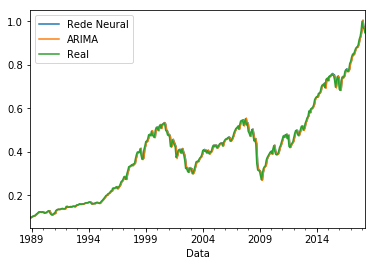
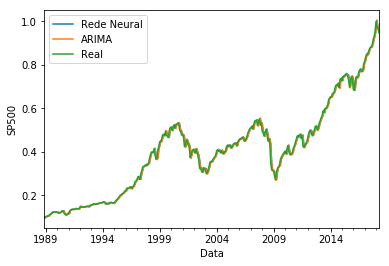
fix conclusao

diff --git a/main.tex b/main.tex
@@ -675,7 +675,7 @@ tempo parcimonioso e representativo para a série analisada.
 
 Por fim, para completa construção  do modelo apresentado na \autoref{eq:arma} é
 necessária a obtenção dos coeficientes  do processo autorregressivo e de médias
-móveis. Para  essa tarefa  segundo \citeonline{yinay} é  comum a  utilização do
+móveis. Para  essa tarefa  segundo \citeonline{vinay} é  comum a  utilização do
 estimador de \textit{likelihood}, ou mais precisamente a maximação da função de
 \textit{likelihood}.
 
@@ -964,6 +964,15 @@ Um de seus  desafios foi combinar a informação de  geolocalização com as sé
 das  demandas por  corridas. Como  resultado  ele foi  capaz de  obter um  erro
 inferior a 26\% na previsão de corridas utilizando modelo proposto.
 
+Quanto  a  utilização   de  redes  neurais  podemos  observar   o  trabalho  de
+\citeonline{zhangbco}.  Neste trabalho  foi observado  o desempenho  do uso  de
+redes neurais  utilizando o algorítimo de  retro propagação e outro  baseado em
+algorítimos naturais. A série utilizado foi  a do índice S\&P500, foi comparada
+a previsão  entre um e  quinze dias adiante. O  modelo neural utilizado  foi de
+três camadas, com 9  neurônios na camada de entrada, 3 na  camada escondida e 1
+na de  saída. O modelo proposto  utilizando o algorítimo neural  teve resultado
+superior para todas as analises.
+
 \chapter{Desenvolvimento}\label{chap:desenv}
 
 Como colocado na \autoref{sec:seriesTemporais} a capacidade de se prever séries
@@ -1011,7 +1020,7 @@ respectivamente de apresentar o menor e maior elemento do conjunto.
 \end{figure}
 
 A  divisão do  conjunto  de treino  e  teste  foi realizado  de  maneira a  ser
-utilizado 70\% dos dados durante o treinamento e 30\% durante a validação. Na
+utilizado 70\% dos  dados durante o treinamento e 30\%  durante a validação. Na
 \autoref{fig:traintest} vemos estes conjuntos.
 
 \begin{figure}[ht]
@@ -1050,7 +1059,7 @@ intervalo de confiança.
 
 \begin{figure}[ht]
     \centering
-    \caption{Função de autocorrelação para a série S\&P500}\autoref{fig:acfsp500}
+    \caption{Função de autocorrelação para a série S\&P500}\label{fig:acfsp500}
     \includegraphics[width=.5\linewidth]{images/SP500_FAC.png}
     \source{Elaborado pelo autor}
 \end{figure}
@@ -1075,7 +1084,7 @@ concluir que uma única diferenciação foi suficiente.
 \end{figure}
 
 Quanto a sazonalidade, podemos observar a  existência de um padrão que remete a
-um comportamento na  \autoref{fig:acf_diff_dp500}, no entanto, não  é tão claro
+um comportamento na  \autoref{fig:acf_diff_sp500}, no entanto, não  é tão claro
 qual o período.  Para se definir isso seria necessária  a definição de técnicas
 que não fizeram parte desse trabalho.
 
@@ -1224,10 +1233,15 @@ ordem de $0,6\%$.
 \end{table}
 
 \begin{figure}[ht]
-    \centering
-    \caption{Gráfico comparativo entre os modelos obtidos para a série
-    S\&P500}\label{fig:comparesp500}
-    \includegraphics[width=.5\linewidth]{images/sp500_prediction_compare.png}
+    \caption{Comparativos dos resultados}
+    \begin{subfigure}{.5\textwidth}
+        \caption{Gráfico comparativo entre os modelos obtidos}\label{fig:comparesp500}
+        \includegraphics[width=.8\linewidth]{images/sp500_prediction_compare.png}
+    \end{subfigure}
+    \begin{subfigure}{.5\textwidth}
+        \caption{Gráfico dos erros acumulados}\label{fig:comparesp500}
+        \includegraphics[width=.8\linewidth]{images/sp500_cumsum.png}
+    \end{subfigure}
     \source{Elaborado pelo autor}
 \end{figure}
 
@@ -1238,51 +1252,47 @@ temporais utilizando  algorítimos estatísticos e  de aprendizado de  máquina.
 comum  em  trabalhos  a  utilização  de métodos  probabilísticos  quando  se  é
 realizada a tarefa de previsão de séries, mais especificamente o modelo hibrido
 ARIMA proposto por \citeonline{box}. No entanto modelos baseados em algorítimos
-de aprendizado  de máquina  tomaram notoriedade nos  últimos anos,  logo, neste
+de aprendizado  de máquina se tornaram  notórios nos últimos anos,  logo, neste
 trabalho  foi comparado  estes  modelos  para entender  os  suas capacidades  e
 observar os seus desafios particulares.
 
 Para  permitir a  avaliação  foi  necessária a  compreensão  da construção  dos
 modelos. Enquanto  o proposto por \citeonline{box}  apresentou uma complexidade
 muito  superior na  etapa de  análise da  série, já  que esse  modelo pode  ser
-entendido como dependente de  diversas intervenções para melhor parametrização,
-o  modelo  de  aprendizado,  utilizando redes  neurais  de  múltiplas  camadas,
+entendido como dependente de  diversas intervenções para melhor parametrização.
+O  modelo  de  aprendizado,  utilizando redes  neurais  de  múltiplas  camadas,
 apresentou  uma  necessidade minima  de  compreensão  dos dados  estudados,  no
 entanto, sua complexidade se apresentou durante a etapa de treinamento.
 
 Quanto aos resultados,  podemos concluir que os modelos  utilizados foram muito
-similar em seu desempenho. Vale notar que possivelmente os resultados não foram
-expressivas  na conclusão  de superioridade  de  um modelo,  devido a  aparente
-simplicidade da série utilizada para comparação, como também pode se discutir a
-semelhança matemática  entre os modelos  utilizados. Quanto a métrica  de erros
-quadrados  médios utilizada  para a  avaliação, o  modelo ARIMA  teve resultado
-superior em uma ordem ínfima, 0,6\% em relação ao modelo de redes neurais.
+similar em seu  desempenho. Vale notar que os resultados  não foram expressivas
+na conclusão de  superioridade de um modelo. Quanto a  métrica utilizada para a
+avaliação, o modelo ARIMA teve resultado superior em uma ordem ínfima, 0,6\% em
+relação ao modelo de redes neurais.
 
-O  modelo probabilísticos  obtido foi  um modelo  hibrido ARMA,  de ordem  1 do
-processo autorregressivo e  ordem 1 para o processo de  medias móveis, e também
-foi realizado uma  diferenciação já que a série apresentou  tendencia durante a
-análise, e  se faz necessária a  diferenciação para para obtenção  de uma série
-estacionaria, característica requerido  pelo modelo. Durante a  análise não foi
-identificada sazonalidade.
+O  modelo probabilísticos  obtido foi  um modelo  hibrido ARMA,  de ordem  5 do
+processo autorregressivo e ordem 7 para o processo de medias móveis. Também foi
+necessária uma diferenciação  já que a série apresentou tendencia,  e por conta
+disso,  foi  necessária  a  diferenciação  para  para  obtenção  de  uma  série
+estacionaria, característica essa requerido pelo modelo ARMA\@.
 
-Para  obtenção do  modelo de  redes neurais  a mudança  dos dados  se resumiram
-a  realizar  uma  escala  para  valores,  sem  necessária  maior  avaliação  do
-comportamento, já  que segundo  \citeonline{haykin} algorítimos  de aprendizado
-são ditos  dirigido por dados.  No entanto durante  a etapa de  treinamento foi
-necessária  a  realização  de  diversos  testes para  encontrar  o  modelo  que
-melhor  se adequava,  além da  aplicação de  validação cruzada  e regularização
-para  diminuir a  ocorrência de  \textit{overfit}. Por  meio desse  processo se
-identificou uma rede neural de duas camadas,  sendo a de entrada com 9 unidades
-de processamento, \textit{perceptron}, e a segunda com um único neurônio, sendo
-essa camada a de saída e representando a previsão um passo a diante.
+Para obtenção  do modelo de  redes neurais a mudança  dos dados se  resumiram a
+realizar  de um  dimensionamento para  um intervalo  de valores,  sem se  fazer
+necessário maior avaliação do comportamento, já que segundo \citeonline{haykin}
+algorítimos de aprendizado  são ditos dirigido por dados. No  entanto durante a
+etapa  de treinamento  foi  necessária  a realização  de  diversos testes  para
+encontrar  o modelo  que melhor  se adequava,  além da  aplicação de  validação
+cruzada e  regularização para  diminuir a  ocorrência de  \textit{overfit}. Por
+meio desse processo se identificou uma rede  neural de duas camadas, sendo a de
+entrada com 13 unidades de  processamento, \textit{perceptron}, e a segunda com
+um único neurônio, sendo  essa camada a de saída e  representando a previsão um
+passo a diante.
 
 Conclui-se que os  modelos são suficientes para a tarefa,  no entanto, temos de
 observar que o modelo estatísticos torna  a parametrização uma etapa muito mais
-complexa que o modelo de aprendizado. Assim  a escolha do modelo pode ser feita
-analisando capacidade de  análise de quem constrói o modelo,  ou o entendimento
-de  como os  dados poderão  se  comportar, já  que  o modelo  de aprendizado  é
-dirigido pelos dados, logo, sua capacidade de se adaptar a novos comportamentos
-é superior ao modelo probabilístico.
+complexa  que o  modelo de  aprendizado.  Assim a  escolha do  modelo pode  ser
+feita  analisando capacidade  de  análise de  quem o  constrói,  ou conforme  o
+comportamento dos  dados no  caso do  uso de  redes neurais  artificiais.
 
 \section{Trabalhos futuros}
 
